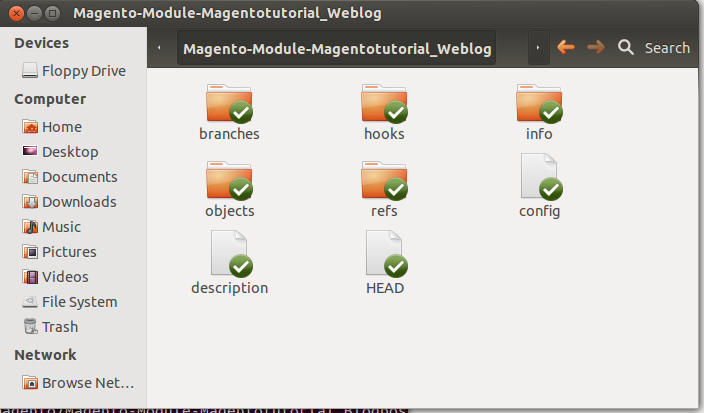
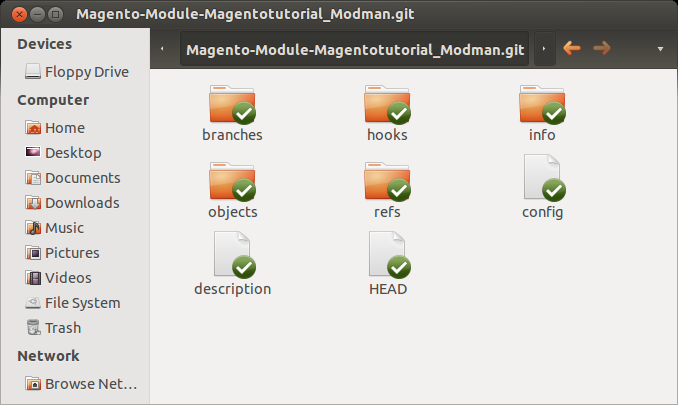
update the adding module over modman tutorial

diff --git a/Lessons Learned - Adding-a-new-Module-to-git-and-modman/readme.md b/Lessons Learned - Adding-a-new-Module-to-git-and-modman/readme.md
@@ -1,20 +1,19 @@
 # Setting up git and modman for a new module
 ## Create a new git bare repository
 
-Let's assume we want to create a new module "Magentotutorial_Weblog"
+Let's assume we want to create a new module "Magentotutorial_Modman"
 
-Open a console, create a new folder in the git master directory
+Open a Nautilus and navigate to "/home/dev/Dropbox/git-master-magento" directory.
+Create a new folder named "Magento-Module-Magentotutorial_Modman.git" in the git master directory.
+
+![Screenshot of new bare repository](files/create-new-modman-dir.png)
+Open Terminal and navigate into the new folder and create a git bare repository.
+Note: You can drag the folder or folders name from the navigation bar into the terminals command line to insert the full path.
+
+![Screenshot of new bare repository](files/drag-to-terminal.png)
 
 <!-- language: lang-bash -->
-	
-	cd /home/dev/Dropbox/git-master-magento
-	mkdir Magento-Module-Magentotutorial_Weblog.git
-
-Navigate into the new folder and create a git bare repository.
-
-<!-- language: lang-bash -->
-
-	cd "Magento-Module-Magentotutorial_Weblog.git"
+	cd '/home/dev/Dropbox/git-master-magento/Magento-Module-Magentotutorial_Modman.git'
     git init --bare
 
 Check the folder content in Nautilus. It should look like this:
@@ -34,16 +33,49 @@ Open a console and create a temporary directory a local git repository.
 Add the previously created bare repository as remote repository.
 
 <!-- language: lang-bash -->
+	git remote add origin /home/dev/Dropbox/git-master-magento/Magento-Module-Magentotutorial_Modman.git
 
-	git remote add origin /home/dev/Dropbox/git-master-magento/Magento-Module-Magentotutorial_Weblog.git
+Navigate to the git-tmp folder in Nautilus. Then create Magentotutorial_Modman.xml with folliwing content:
 
-Apply a local change
+<!-- language: lang-xml -->
+	<config>
+	    <modules>
+	        <Magentotutorial_Modman>
+	            <active>true</active>
+	            <codePool>local</codePool>
+	        </Magentotutorial_Modman>
+	    </modules>
+	</config>
+
+Create the filed named "modman" with following content:
+
+<!-- language: lang-txt -->
+	# Magentotutorial Modman
+	code                                        app/code/local/Magentotutorial/Modman/
+	Magentotutorial_Modman.xml         			app/etc/modules/Magentotutorial_Modman.xml
+
+Create there an folder named "code". Inside this folder create a new folder named "etc".
+Inside this folder create "config.xml" with following content:
+
+<!-- language: lang-xml -->
+	<config>
+	    <modules>
+	        <Magentotutorial_Modman>
+	            <version>0.1.0</version>
+	        </Magentotutorial_Modman>
+	    </modules>
+	</config>
+
+
+Remove the temporary files if exists. These files containing "~" at the end.
+Note: Use the shortcut "CTRL + H" to display hidden files in the Nautilus:
+![Screenshot of new bare repository](files/git-tmp-dir-with-hidden-files.png)
+
+Add and commit local changes
 
 <!-- language: lang-bash -->
-
-	touch newfile.txt
 	git add .
-	git commit -am "first local change"
+	git commit -am "modman init"
 
 Push the change to the origin (bare repository)
 	
@@ -51,37 +83,44 @@ Push the change to the origin (bare repository)
 
 	git push origin master
 
+## Create a clone by using modman
+
+Open a console and navigate to the Magento's htdocs directory
+
+<!-- language: lang-bash -->
+	cd '/var/www/vhosts/magento-dev.arvato-hightech-ecommerce.com/htdocs'
+
+Create inside this folder a ".modman" directory and clone a new repository from the bare repository by using following commands
+
+<!-- language: lang-bash -->
+	modman init
+	modman clone '/home/dev/Dropbox/git-master-magento/Magento-Module-Magentotutorial_Modman.git' 
+
 ## Configure netbeans for the new repository
 
+Swith to NetBeansProjects folder and create symbolic link to modman's module clone:
 
-Open the clone wizard
-![Screenshot open the git clone wizard](files/netbeans-clone-repo1.png)
+<!-- language: lang-bash -->
+	cd '/home/dev/NetBeansProjects'
+	ln -s '/var/www/vhosts/magento-dev.arvato-hightech-ecommerce.com/htdocs/.modman/Magento-Module-Magentotutorial_Modman' 
 
-Select the path od the bare repository
-![Screenshot open the git clone wizard](files/netbeans-clone-repo2.png)
+Observe the NetBeansProjects directory. It looks like this:
+![Screenshot open the git clone wizard](files/netbeans-projects-folder.png)
 
-Select the branch (there should only be master for now)
-![Screenshot open the git clone wizard](files/netbeans-clone-repo3.png)
+Create a new project under File->New Project and select PHP Application from Existing Sources
+![Screenshot open the git clone wizard](files/create-new-project.png)
 
-Select a path for the netbeans project (can stay as is, but copy the path for later)
-![Screenshot open the git clone wizard](files/netbeans-clone-repo4.png)
+Paste the path of the newly created link to modman module and click on "Finish" button
+![Screenshot open the git clone wizard](files/create-project-1.png)
 
-Now Netbeans asks you wether you want to create a new project. - This is the same wizard as File->New Project.
+This is how your new Netbeans project tabs should look like:
+![Screenshot open the git clone wizard](files/create-project-2.png)
 
-Select PHP Application from Existing Sources
-![Screenshot open the git clone wizard](files/netbeans-create-project1.png)
-
-Paste the path of the newly created netbeans project
-![Screenshot open the git clone wizard](files/netbeans-create-project2.png)
-
-Just click continue and leave everything as is.
-![Screenshot open the git clone wizard](files/netbeans-create-project3.png)
-
-This is how your Netbeans project tabs should look like:
-![Screenshot open the git clone wizard](files/netbeans-create-project4.png)
+This is how your Netbeans project "htdocs" tabs should look like:
+![Screenshot open the git clone wizard](files/create-project-3.png)
 
 ---
 
 language: en
-date: 2013-03-15
+date: 2013-04-11
 tags: Magento, modman, Deployment
